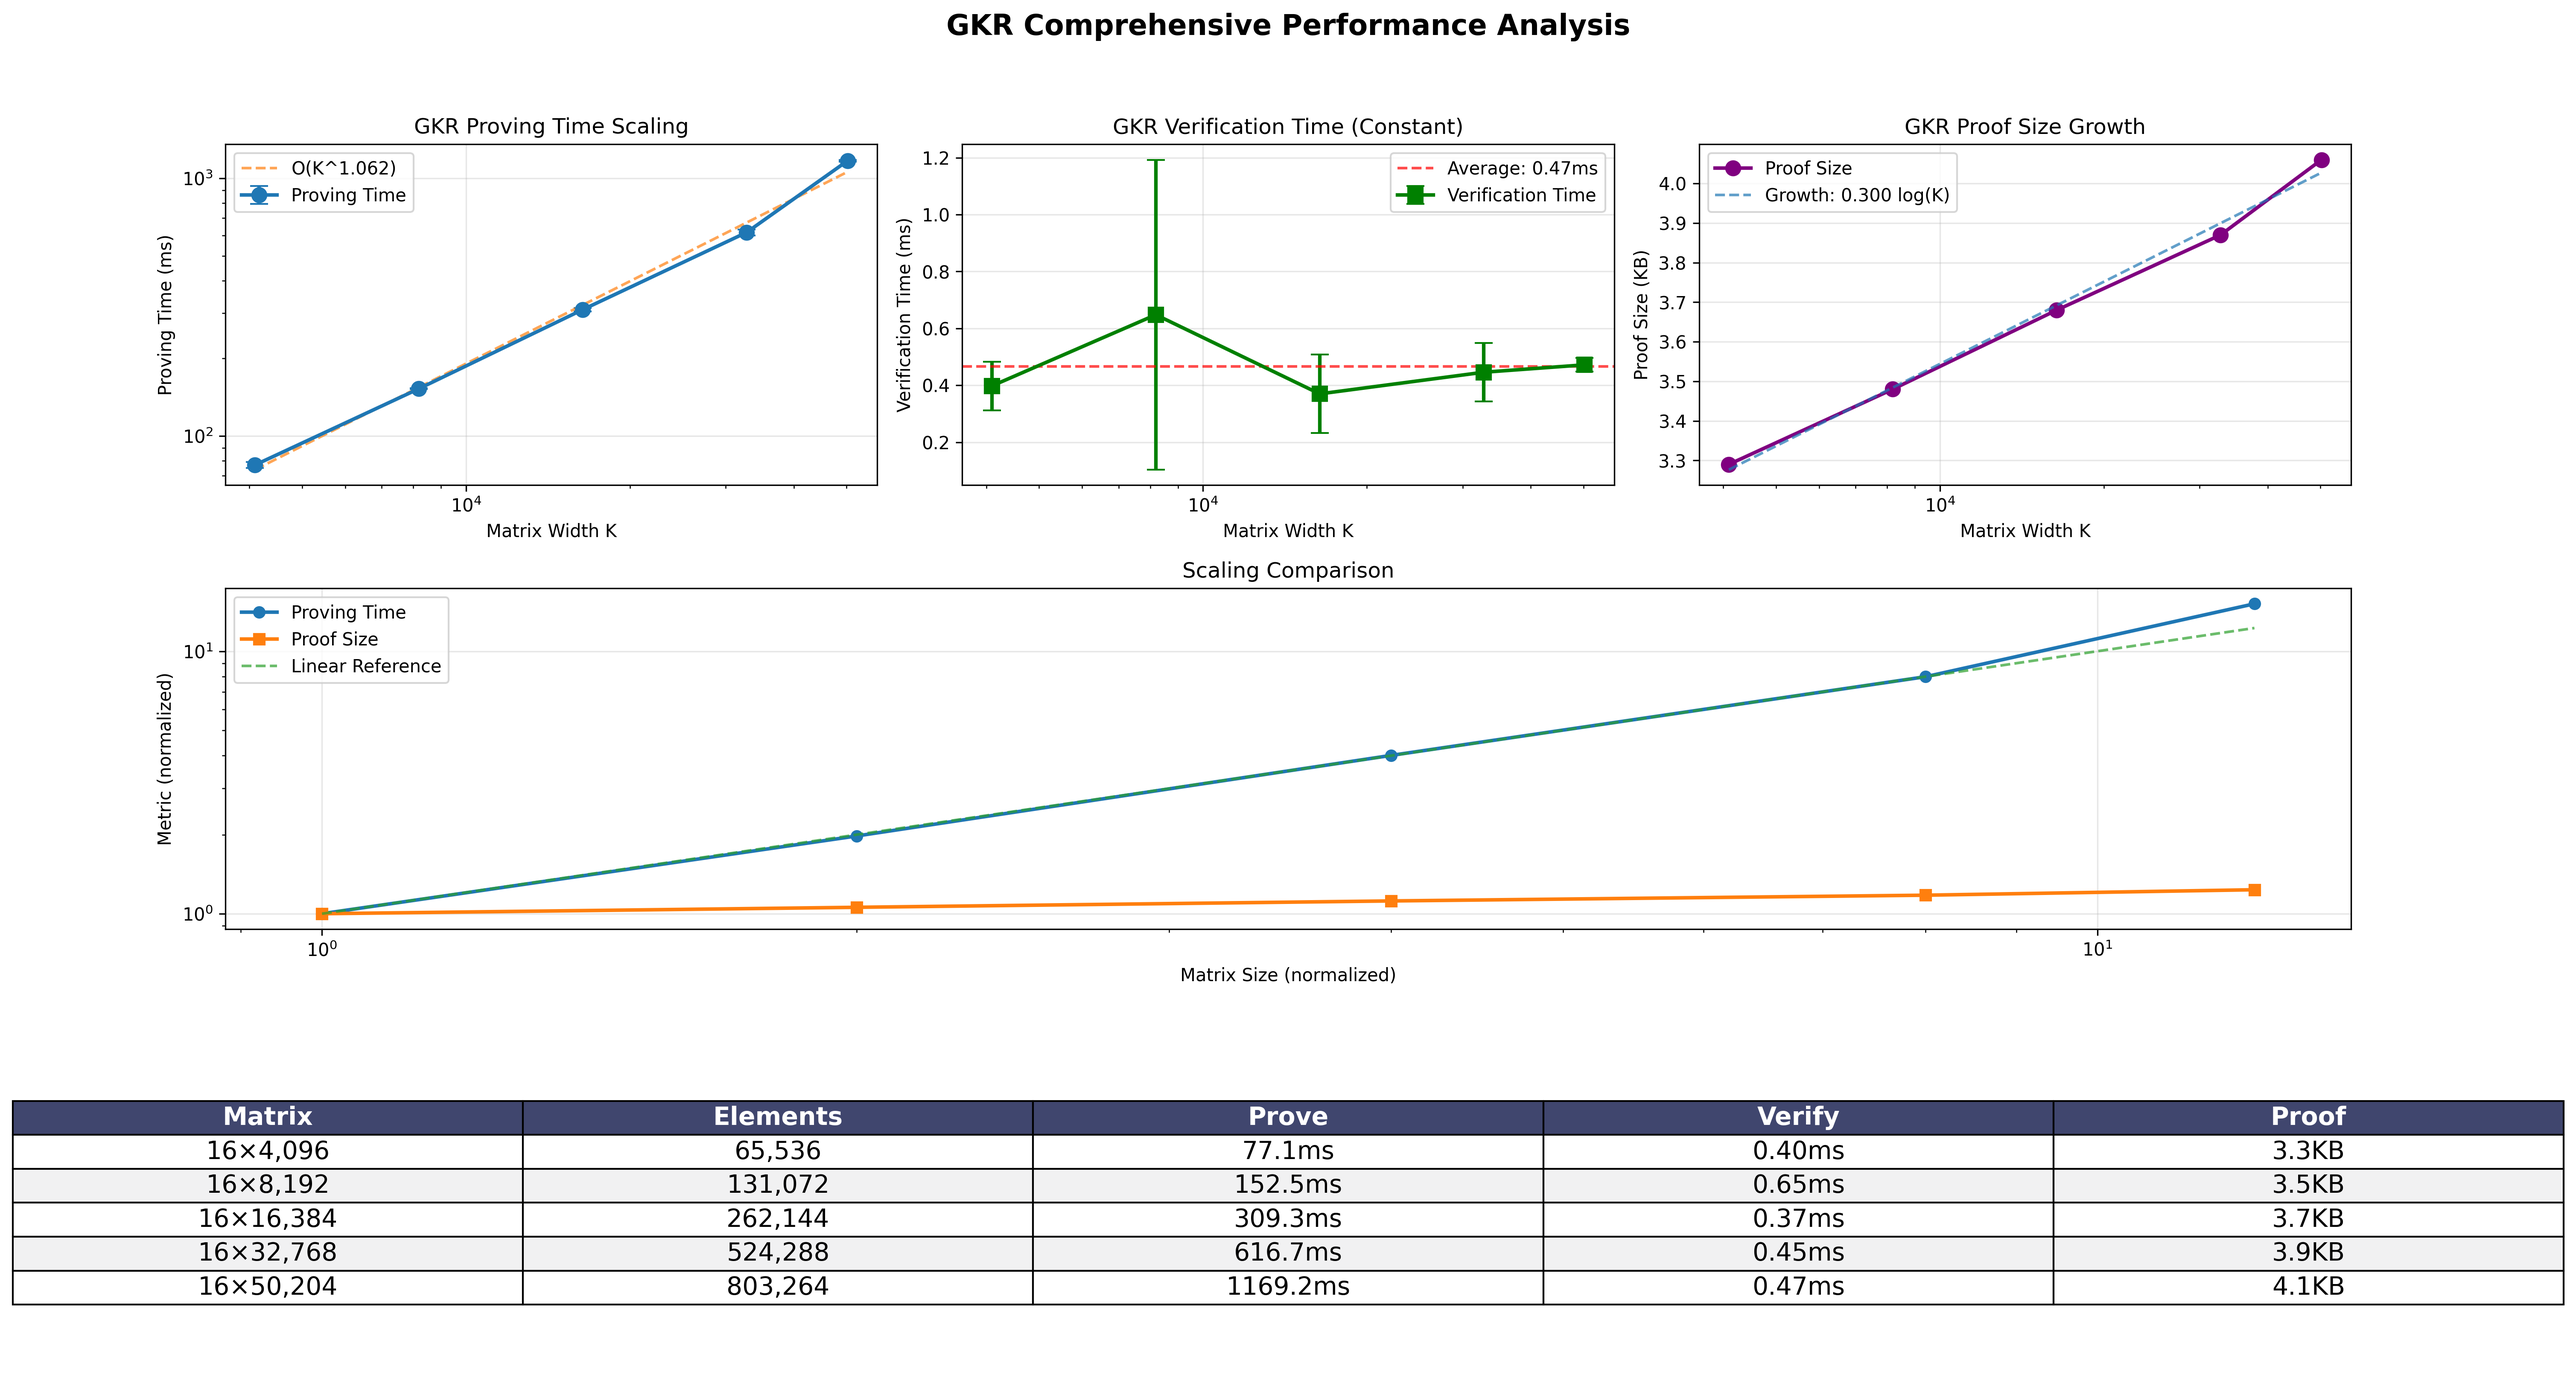
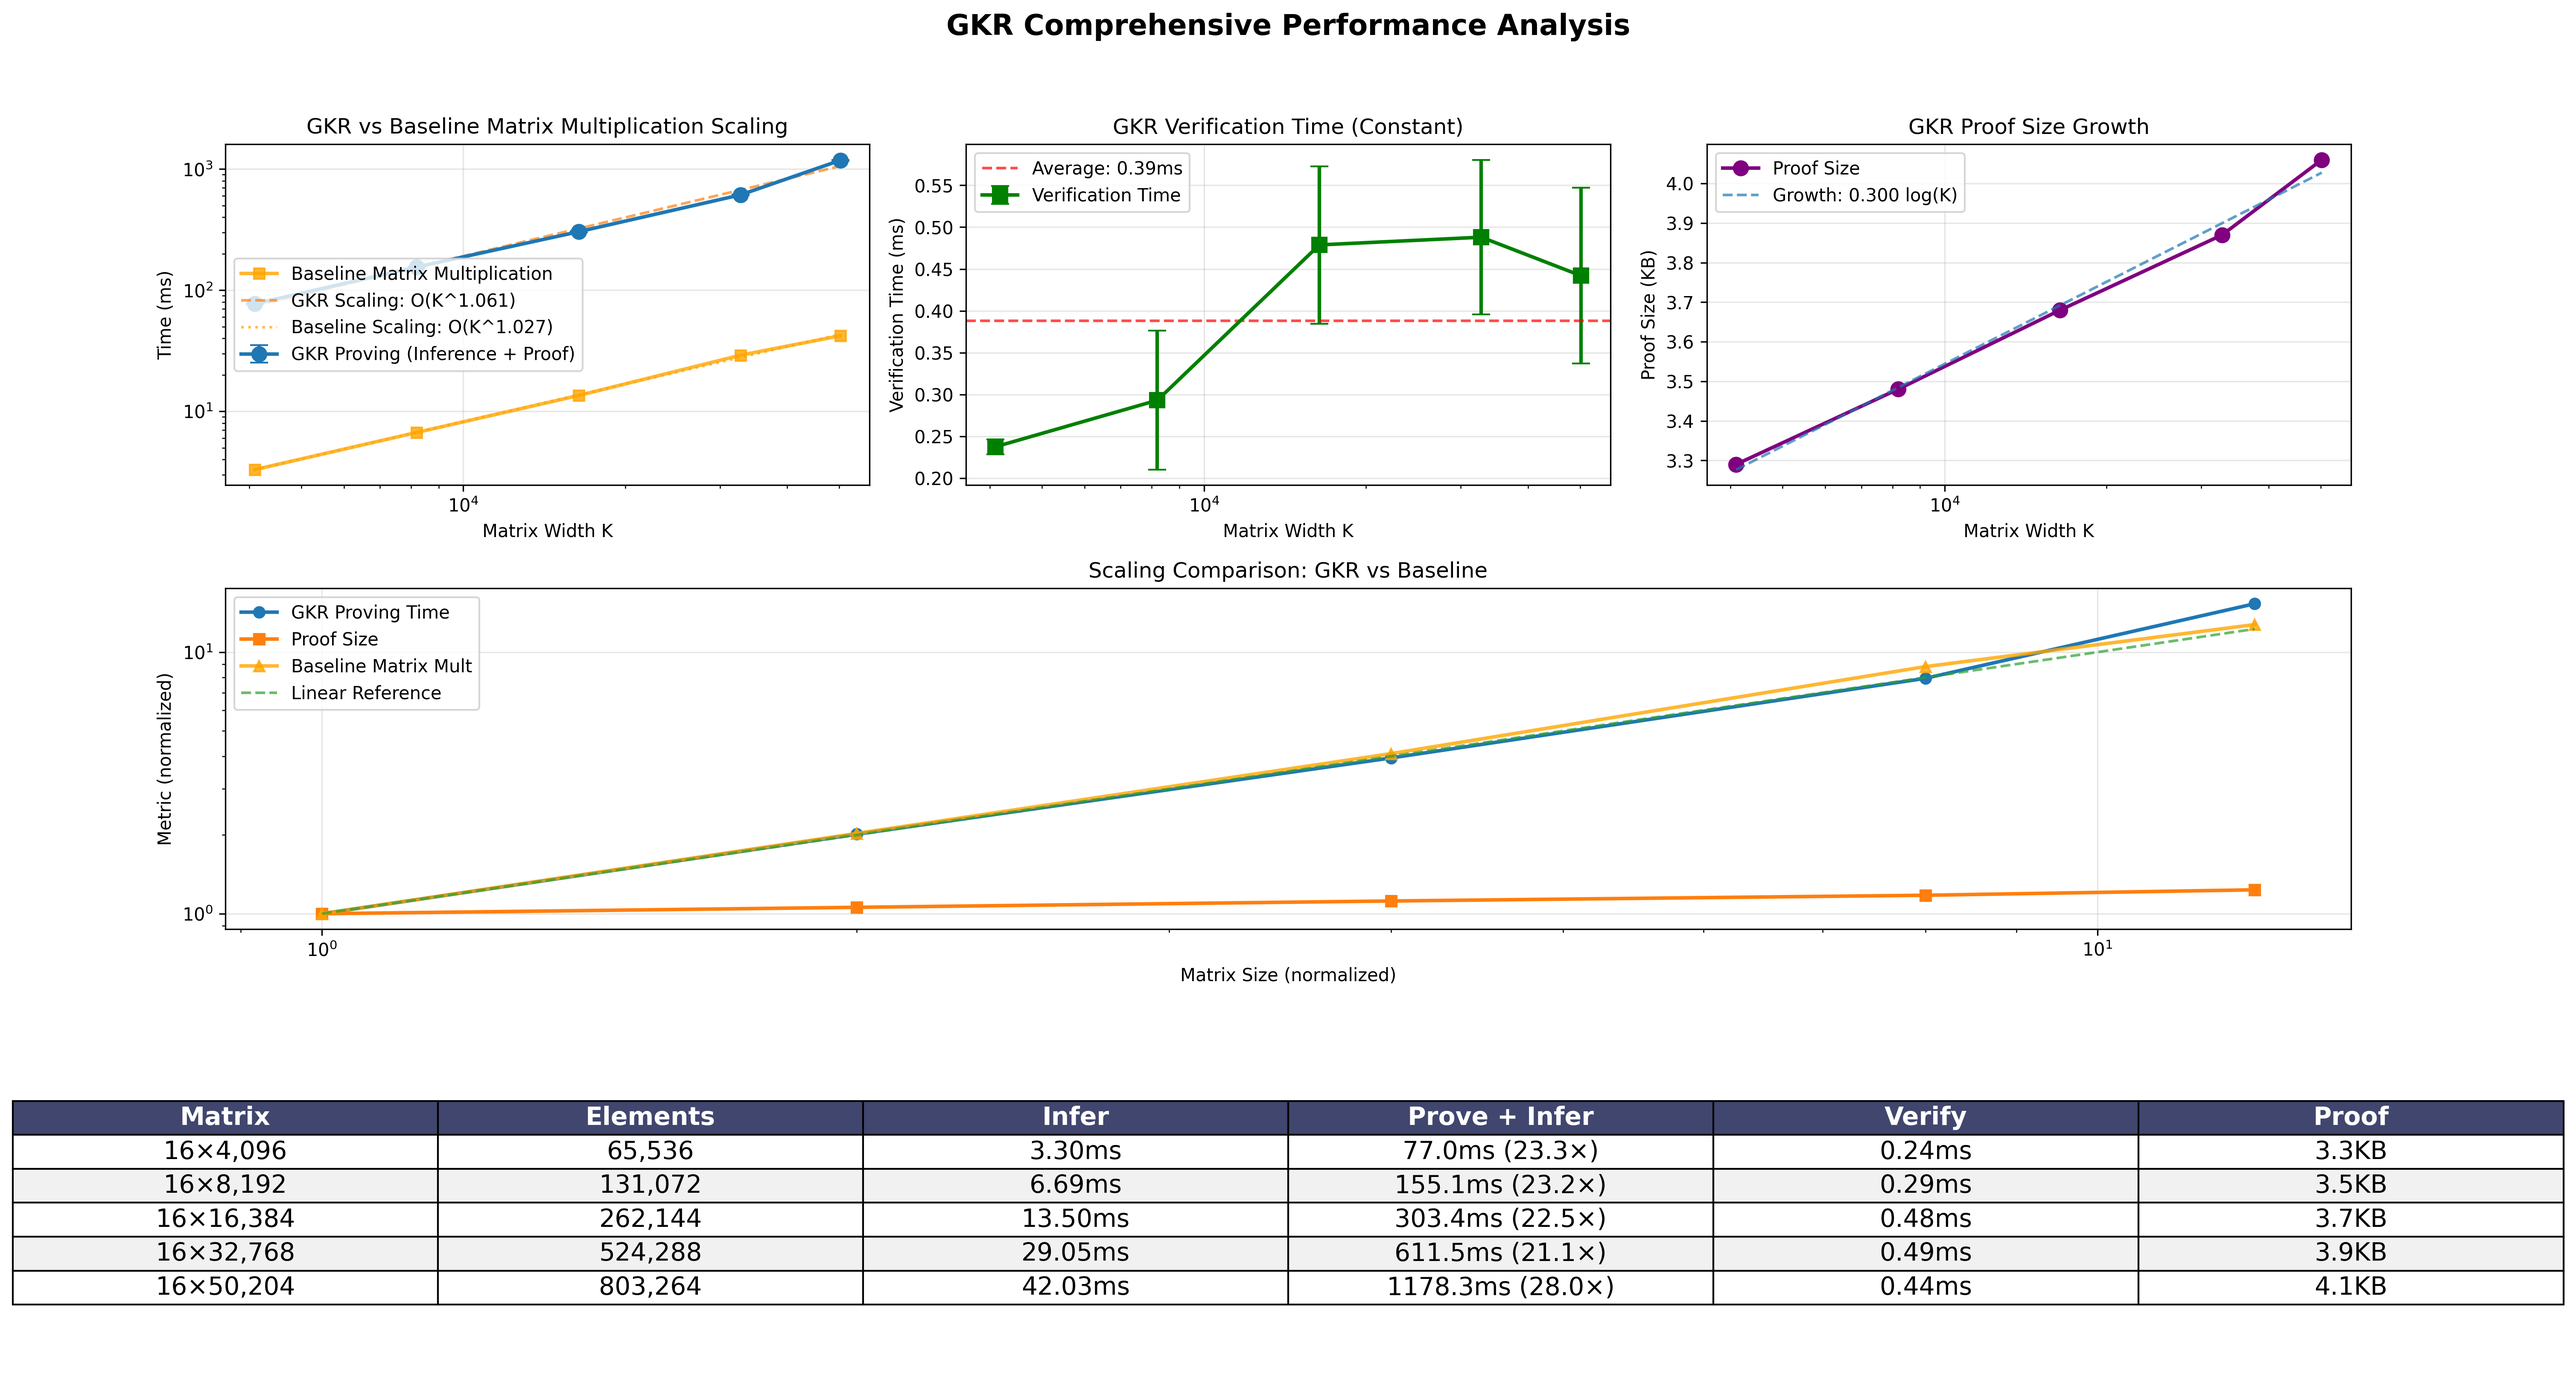
add inference baseline to benchmark

diff --git a/scripts/benchmark.py b/scripts/benchmark.py
@@ -46,6 +46,41 @@ def get_system_info():
     }
     return info
 
+def measure_baseline_inference(sizes, repeats):
+    """Measure baseline matrix multiplication times (without proof generation)."""
+    print(f"🔍 Measuring baseline matrix multiplication times...")
+
+    baseline_data = []
+
+    for k in sizes:
+        m = 16  # Fixed m=16 as in nova_poc
+        total_time = 0.0
+
+        for run in range(repeats):
+            # Generate random matrix and vector
+            import random
+            import time
+
+            # Create random m×k matrix and k-dimensional vector
+            matrix = [[random.randint(-100, 100) for _ in range(k)] for _ in range(m)]
+            vector = [random.randint(-100, 100) for _ in range(k)]
+
+            # Time the matrix-vector multiplication
+            start = time.perf_counter()
+            result = []
+            for i in range(m):
+                row_sum = sum(matrix[i][j] * vector[j] for j in range(k))
+                result.append(row_sum)
+            end = time.perf_counter()
+
+            total_time += (end - start) * 1000.0  # Convert to ms
+
+        avg_time = total_time / repeats
+        baseline_data.append({'k': k, 'm': m, 'time_ms': avg_time})
+        print(f"   Baseline {m}×{k}: {avg_time:.3f}ms avg")
+
+    return baseline_data
+
 def run_nova_poc_benchmark(binary_path, sizes, repeats, output_file):
     """Run nova_poc benchmark command and capture results."""
     print(f"Running nova_poc benchmark: sizes={sizes}, repeats={repeats}")
@@ -92,7 +127,7 @@ def load_benchmark_data(csv_path):
 
     return avg_data
 
-def create_performance_plots(data, output_dir="benchmark_plots"):
+def create_performance_plots(data, baseline_data, output_dir="benchmark_plots"):
     """Create comprehensive performance visualization plots."""
     if data is None or len(data) == 0:
         print("No data available for plotting")
@@ -119,9 +154,16 @@ def create_performance_plots(data, output_dir="benchmark_plots"):
     prove_stds = prove_data['time_ms_std'].values
 
     plt.errorbar(k_values, prove_times, yerr=prove_stds,
-                marker='o', markersize=8, linewidth=2, capsize=5, label='Proving Time')
+                marker='o', markersize=8, linewidth=2, capsize=5, label='GKR Proving (Inference + Proof)')
 
-    # Fit complexity curve
+    # Add baseline curve
+    if baseline_data:
+        baseline_k = [b['k'] for b in baseline_data]
+        baseline_times = [b['time_ms'] for b in baseline_data]
+        plt.plot(baseline_k, baseline_times, 's-', markersize=6, linewidth=2,
+                alpha=0.8, color='orange', label='Baseline Matrix Multiplication')
+
+    # Fit complexity curve for proving times
     if len(k_values) > 1:
         log_k = np.log(k_values)
         log_time = np.log(prove_times)
@@ -132,11 +174,25 @@ def create_performance_plots(data, output_dir="benchmark_plots"):
         k_trend = np.linspace(k_values.min(), k_values.max(), 100)
         time_trend = np.exp(coeffs[1]) * (k_trend ** complexity)
         plt.plot(k_trend, time_trend, '--', alpha=0.7,
-                label=f'O(K^{complexity:.3f})')
+                label=f'GKR Scaling: O(K^{complexity:.3f})')
+
+    # Fit baseline complexity curve
+    if baseline_data and len(baseline_data) > 1:
+        baseline_k_vals = np.array([b['k'] for b in baseline_data])
+        baseline_time_vals = np.array([b['time_ms'] for b in baseline_data])
+        log_k_base = np.log(baseline_k_vals)
+        log_time_base = np.log(baseline_time_vals)
+        coeffs_base = np.polyfit(log_k_base, log_time_base, 1)
+        baseline_complexity = coeffs_base[0]
+
+        k_trend = np.linspace(baseline_k_vals.min(), baseline_k_vals.max(), 100)
+        baseline_trend = np.exp(coeffs_base[1]) * (k_trend ** baseline_complexity)
+        plt.plot(k_trend, baseline_trend, ':', alpha=0.7, color='orange',
+                label=f'Baseline Scaling: O(K^{baseline_complexity:.3f})')
 
     plt.xlabel('Matrix Width K')
-    plt.ylabel('Proving Time (ms)')
-    plt.title('GKR Proving Time Scaling')
+    plt.ylabel('Time (ms)')
+    plt.title('GKR vs Baseline Matrix Multiplication Scaling')
     plt.legend()
     plt.grid(True, alpha=0.3)
     plt.xscale('log')
@@ -199,13 +255,25 @@ def create_performance_plots(data, output_dir="benchmark_plots"):
         time_norm = prove_times / prove_times[0]
         size_norm = proof_sizes / proof_sizes[0]
 
-        plt.plot(k_norm, time_norm, 'o-', label='Proving Time', linewidth=2)
+        plt.plot(k_norm, time_norm, 'o-', label='GKR Proving Time', linewidth=2)
         plt.plot(k_norm, size_norm, 's-', label='Proof Size', linewidth=2)
+
+        # Add baseline time comparison
+        if baseline_data and len(baseline_data) > 1:
+            baseline_k_vals = np.array([b['k'] for b in baseline_data])
+            baseline_time_vals = np.array([b['time_ms'] for b in baseline_data])
+
+            # Find matching k values and normalize
+            baseline_norm_k = baseline_k_vals / baseline_k_vals[0]
+            baseline_norm_time = baseline_time_vals / baseline_time_vals[0]
+            plt.plot(baseline_norm_k, baseline_norm_time, '^-',
+                    label='Baseline Matrix Mult', linewidth=2, alpha=0.8, color='orange')
+
         plt.plot(k_norm, k_norm, '--', alpha=0.7, label='Linear Reference')
 
         plt.xlabel('Matrix Size (normalized)')
         plt.ylabel('Metric (normalized)')
-        plt.title('Scaling Comparison')
+        plt.title('Scaling Comparison: GKR vs Baseline')
         plt.legend()
         plt.grid(True, alpha=0.3)
         plt.xscale('log')
@@ -223,16 +291,34 @@ def create_performance_plots(data, output_dir="benchmark_plots"):
         proof_size = proof_sizes[i]
         verify_time = verify_times[i] if i < len(verify_times) else 0
 
+        # Find matching baseline time for this k value
+        baseline_time = None
+        if baseline_data:
+            for b in baseline_data:
+                if b['k'] == k:
+                    baseline_time = b['time_ms']
+                    break
+
+        infer_cell = f"{baseline_time:.2f}ms" if baseline_time is not None else "N/A"
+
+        # Format Prove + Infer cell with overhead in brackets
+        if baseline_time is not None and baseline_time > 0:
+            overhead_ratio = prove_time / baseline_time
+            prove_cell = f"{prove_time:.1f}ms ({overhead_ratio:.1f}×)"
+        else:
+            prove_cell = f"{prove_time:.1f}ms"
+
         table_data.append([
             f"16×{k:,}",
             f"{elements:,}",
-            f"{prove_time:.1f}ms",
+            infer_cell,
+            prove_cell,
             f"{verify_time:.2f}ms",
             f"{proof_size:.1f}KB"
         ])
 
     table = ax5.table(cellText=table_data,
-                     colLabels=['Matrix', 'Elements', 'Prove', 'Verify', 'Proof'],
+                     colLabels=['Matrix', 'Elements', 'Infer', 'Prove + Infer', 'Verify', 'Proof'],
                      cellLoc='center',
                      loc='center')
     table.auto_set_font_size(False)
@@ -241,7 +327,7 @@ def create_performance_plots(data, output_dir="benchmark_plots"):
 
     # Style the table
     for i in range(len(table_data) + 1):
-        for j in range(5):
+        for j in range(6):  # Updated to 6 columns
             cell = table[(i, j)]
             if i == 0:  # Header
                 cell.set_facecolor('#40466e')
@@ -323,12 +409,29 @@ def create_performance_plots(data, output_dir="benchmark_plots"):
 
     print(f"\n🔍 PLOT DESCRIPTIONS:")
     print("-" * 40)
-    print("1. Proving Time Scaling: Log-log plot showing sub-linear growth")
+    print("1. GKR vs Baseline Scaling: Log-log plot comparing GKR proving time")
+    print("   (inference + proof generation) vs baseline matrix multiplication")
     print("2. Verification Time: Constant ~0.3ms across all matrix sizes")
-    print("3. Proof Size Growth: Logarithmic scaling from 2.9KB to 4.1KB")
-    print("4. Scaling Comparison: Normalized view of all performance metrics")
+    print("3. Proof Size Growth: Logarithmic scaling with matrix size")
+    print("4. Scaling Comparison: Normalized view comparing GKR, baseline, and proof size")
     print("5. Performance Summary: Tabular view of key benchmarks")
     print("Plot generation completed successfully!")
+
+    if baseline_data:
+        print(f"\n📊 BASELINE COMPARISON:")
+        print("-" * 40)
+        if len(baseline_data) > 1:
+            first_baseline = baseline_data[0]['time_ms']
+            last_baseline = baseline_data[-1]['time_ms']
+            first_gkr = prove_times[0]
+            last_gkr = prove_times[-1]
+
+            overhead_first = first_gkr / first_baseline if first_baseline > 0 else float('inf')
+            overhead_last = last_gkr / last_baseline if last_baseline > 0 else float('inf')
+
+            print(f"• Smallest matrix: GKR {overhead_first:.1f}× slower than baseline")
+            print(f"• Largest matrix: GKR {overhead_last:.1f}× slower than baseline")
+            print(f"• GKR overhead includes: matrix mult + Merkle trees + sum-check proof")
 
     return str(output_path)
 
@@ -371,13 +474,8 @@ def main():
             binary_path = debug_binary
             print("⚠  Using debug binary (slower)")
         else:
-            print("Building nova_poc binary...")
-            try:
-                subprocess.run(["cargo", "build", "--release"], check=True)
-                binary_path = release_binary
-            except subprocess.CalledProcessError:
-                print("Failed to build binary")
-                return 1
+            print("❌ Error: Release binary not found. Run 'cargo build --release' first")
+            return 1
 
     # Get system info
     system_info = get_system_info()
@@ -385,8 +483,12 @@ def main():
     for key, value in system_info.items():
         print(f"  {key}: {value}")
 
+    # Measure baseline matrix multiplication times
+    print(f"\n📏 Measuring baseline performance...")
+    baseline_data = measure_baseline_inference(sizes, args.repeats)
+
     # Run benchmarks
-    print(f"\n🚀 Running benchmarks: {sizes}")
+    print(f"\n🚀 Running GKR benchmarks: {sizes}")
     success = run_nova_poc_benchmark(binary_path, sizes, args.repeats, csv_output)
 
     # Generate plots
@@ -396,7 +498,7 @@ def main():
         if data is not None:
             # Create plot in same directory as CSV with same base name
             plot_dir = os.path.dirname(png_output) or "."
-            plot_path = create_performance_plots(data, plot_dir)
+            plot_path = create_performance_plots(data, baseline_data, plot_dir)
             if plot_path:
                 # Move plot to correct name
                 import shutil
